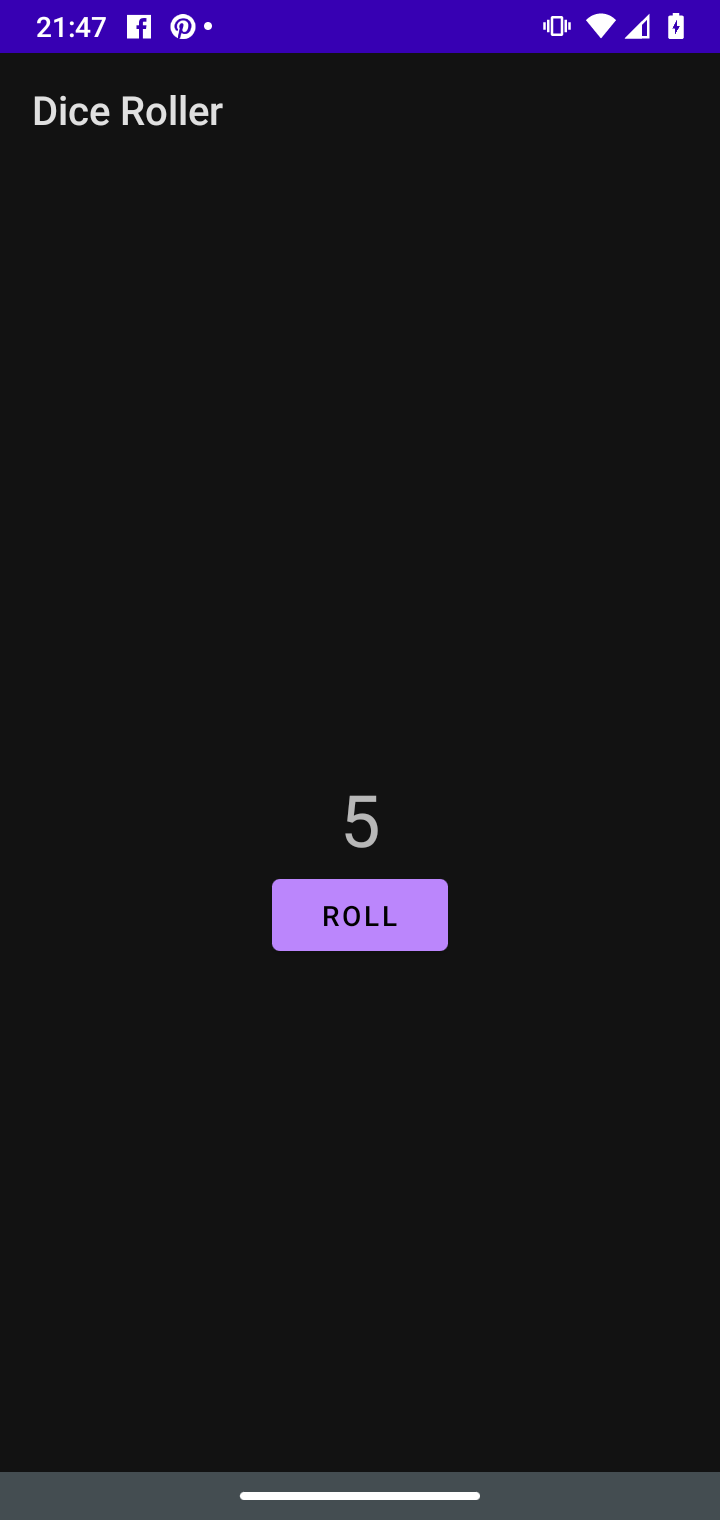
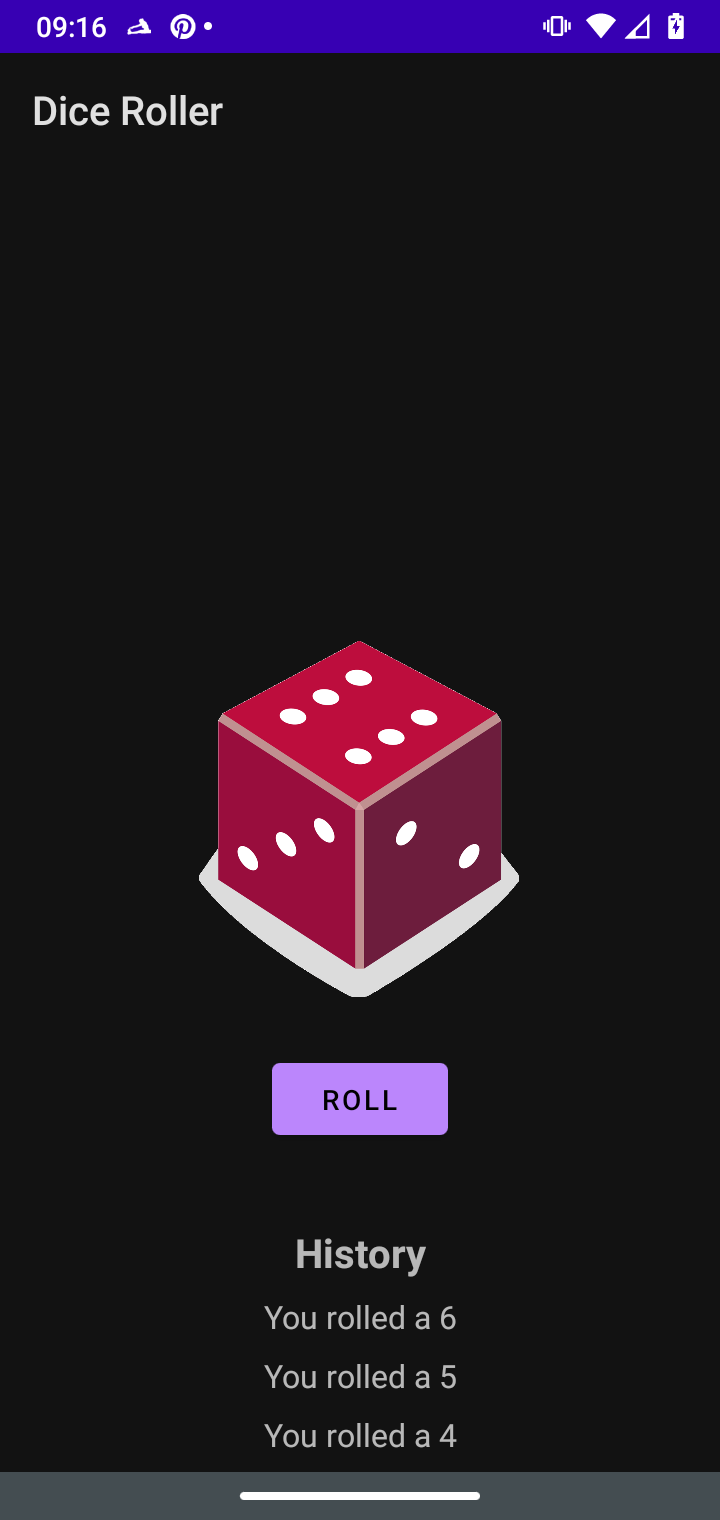
Adding images and a history

diff --git a/app/src/main/java/com/example/diceroller/MainActivity.kt b/app/src/main/java/com/example/diceroller/MainActivity.kt
@@ -2,6 +2,7 @@ package com.example.diceroller
 
 import android.os.Bundle
 import android.widget.Button
+import android.widget.ImageView
 import android.widget.TextView
 import androidx.appcompat.app.AppCompatActivity
 
@@ -11,21 +12,51 @@ class MainActivity : AppCompatActivity() {
         setContentView(R.layout.activity_main)
 
         val rollButton: Button = findViewById(R.id.button)
-        rollButton.setOnClickListener {
-            rollDice()
+        rollButton.setOnClickListener { rollDice() }
+        //Toast.makeText(this, "Dice Rolled!", Toast.LENGTH_SHORT).show()
 
-//             Toast.makeText(this, "Dice Rolled!", Toast.LENGTH_SHORT).show()
-        }
+        // Do a dice roll when the app starts
+        rollDice()
     }
 
-    private fun rollDice() {
-        // Create new Dice object with 6 sides and roll it
+    /**
+     * Roll the dice and update the screen with the result.
+     */
+    private fun rollDice(){
+        // Create new Dice object with 6 sides and roll the dice
         val dice = Dice(6)
         val diceRoll = dice.roll()
 
-        // Update the screen with the dice roll
-        val resultTextView: TextView = findViewById(R.id.textView)
-        resultTextView.text = diceRoll.toString()
+        // Find the ImageView in the layout
+        val diceImage: ImageView = findViewById(R.id.imageView)
+
+        // Determine which drawable resource ID to use based on the dice roll
+        val drawableResource = when (diceRoll) {
+            1 -> R.drawable.dice_1
+            2 -> R.drawable.dice_2
+            3 -> R.drawable.dice_3
+            4 -> R.drawable.dice_4
+            5 -> R.drawable.dice_5
+            else -> R.drawable.dice_6
+        }
+
+        // Update the ImageView with the correct drawable resource ID
+        diceImage.setImageResource(drawableResource)
+
+        // Update the content description
+        diceImage.contentDescription = diceRoll.toString()
+
+        updateHistory(diceRoll)
+    }
+    //update history
+    private fun updateHistory(newValue: Int) {
+        val history1: TextView = findViewById(R.id.textViewHistory1)
+        val history2: TextView = findViewById(R.id.textViewHistory2)
+        val history3: TextView = findViewById(R.id.textViewHistory3)
+
+        history1.text = history2.text
+        history2.text = history3.text
+        history3.text = "You rolled a $newValue"
     }
 }
 

diff --git a/README.md b/README.md
@@ -2,6 +2,19 @@
 
 Dice Roller app from Android Basics in Kotlin at developers.google.com.
 
-It is a simple demo using ConstraintLayout, TextView and Button.
+It is a simple demo using ConstraintLayout, TextView, Button and imageView.
+
+## The extra mile
+
+- A history with the last three rolls
 
 <center><img src="screenshot-Dice-Roller-app.png" height=512 width=288 /></center>
+
+## About the branchs
+
+- Main
+  - A single dice roll.
+- Two Dices
+  - A variation with two dices
+- Lucky Dice Roll.
+  - A variation that tries to get a roll equals to the luck number.
